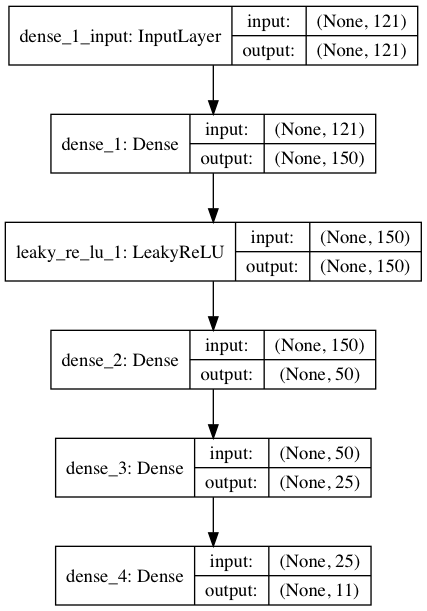
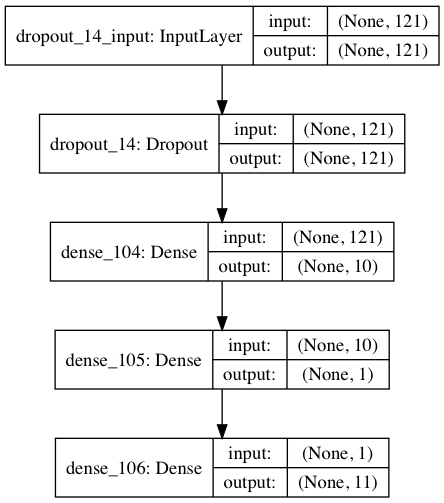
- including Dropout - cross-fold etc.

Changed region(s): [[0.0, 0.0, 1.0, 1.0]]

diff --git a/mlp/mlp_extended.py b/mlp/mlp_extended.py
@@ -4,13 +4,20 @@ import pandas as pd
 import keras
 
 from sklearn.preprocessing import MinMaxScaler
+from sklearn.model_selection import GridSearchCV
 from sklearn.model_selection import train_test_split
 
 from keras.utils import plot_model
 from keras.models import Sequential
 
 from keras.layers import Dense
+from keras.layers import Dropout
+
 from keras.layers import LeakyReLU
+
+from keras.wrappers.scikit_learn import KerasClassifier
+from sklearn.model_selection import KFold
+from sklearn.model_selection import cross_val_score
 
 # TODO - k-fold cross-validation
 
@@ -39,7 +46,7 @@ dataset.head()
 dataset['relabeled_returns'] = np.where(dataset['Next_Day_Return'] >= 0, 1, 0)
 dataset.head()
 
-# create Input with date x (features for each company: currently 121) dimenesions
+# create Input with date x (features for each company: currently 121) dimensions
 dataset.shape
 nr_days = int(dataset.shape[0] / nClasses)
 # amount of features reduced by Timestamp, ID, Next_Day_Return, relabeled_returns)
@@ -64,7 +71,7 @@ scaler      = MinMaxScaler(feature_range=(0, 1))
 X_rescaled    = scaler.fit_transform(X)
 
 # split data in training and test data
-X_train, X_test, y_train, y_test = train_test_split(X_rescaled, Y, test_size=0.66, random_state=seed)
+X_train, X_test, y_train, y_test = train_test_split(X_rescaled, Y, test_size=0.33, random_state=seed)
 
 ###################
 ###     MODEL   ###
@@ -72,10 +79,9 @@ X_train, X_test, y_train, y_test = train_test_split(X_rescaled, Y, test_size=0.6
 
 def baseline_model():
     model = Sequential()
-    model.add(Dense(150, activation='relu', input_dim=121))
-    model.add(LeakyReLU(alpha=.001))   # add an advanced activation
-    model.add(Dense(50, activation='relu'))
-    model.add(Dense(25, activation='relu'))
+    model.add(Dropout(0.2, input_shape=(121,)))
+    model.add(Dense(10, kernel_initializer='normal', activation='relu'))
+    model.add(Dense(1, kernel_initializer='normal', activation='sigmoid'))
     model.add(Dense(nClasses, activation='sigmoid'))
     model.compile(optimizer='adam',
                   loss='binary_crossentropy',
@@ -88,9 +94,9 @@ def baseline_model():
 
 model   = baseline_model()
 history = model.fit(X_train, y_train,
-                 epochs=300,
-                 verbose=2,
-                 validation_data=(X_test, y_test))
+                     epochs=30,
+                     verbose=2,
+                     validation_data=(X_test, y_test))
 
 ###################
 ###  EVALUATION ###
@@ -121,29 +127,42 @@ plt.xlabel('epoch')
 plt.legend(['train', 'test'], loc='upper left')
 plt.show()
 
-
 ###################
 ###  PREDICTION ###
 ###################
 
 ynew = model.predict(X_test)
+ynew_labeled = np.array(ynew)
 
-# relabel prediction
-for i in ynew:
-    for a in i:
-        i[a >= 0.5] = 1
-        i[a < 0.5] = 0
+np.place(ynew_labeled, ynew_labeled > 0.5, [1])
+np.place(ynew_labeled, ynew_labeled <= 0.5, [0])
 
 # Visualize Buy and Sell Signals
-for i in range(ynew.shape[0]):
-    for a in range(ynew.shape[1]):
-        if ynew[i, a] == 1:
-            print("BUY: - ", classes[a], " FORECAST: ", ynew[i, a], "")
-        elif ynew[i, a] == 0:
-            print("SELL: - ",  classes[a], " FORECAST: ", ynew[i, a])
+for i in range(ynew_labeled.shape[0]):
+    for a in range(ynew_labeled.shape[1]):
+        if ynew_labeled[i, a] == 1:
+            print("BUY: - ", classes[a], " FORECAST: ", ynew_labeled[i, a], "")
+        elif ynew_labeled[i, a] == 0:
+            print("SELL: - ",  classes[a], " FORECAST: ", ynew_labeled[i, a])
 
 plt.figure()
 plt_pdR = plt.scatter(classes, ynew[0], color=colors[0])
+plt.axhline(y=0.5)
 plt.xlabel('Companies')
-plt.ylabel('Buy / Sell')
+plt.ylabel('Sell / Buy')
 plt.show()
+
+plt.figure()
+plt_pdR = plt.scatter(classes, ynew_labeled[0], color=colors[0])
+plt.xlabel('Companies')
+plt.ylabel('Sell / Buy')
+plt.show()
+
+###################
+###  K-FOLD ###
+###################
+
+estimator   = KerasClassifier(build_fn=baseline_model, epochs=10, batch_size=5, verbose=2)
+kfold       = KFold(n_splits=10, shuffle=True, random_state=seed)
+results     = cross_val_score(estimator, X, Y, cv=kfold)
+print("Results: %.2f%% (%.2f%%)" % (results.mean()*100, results.std()*100))
